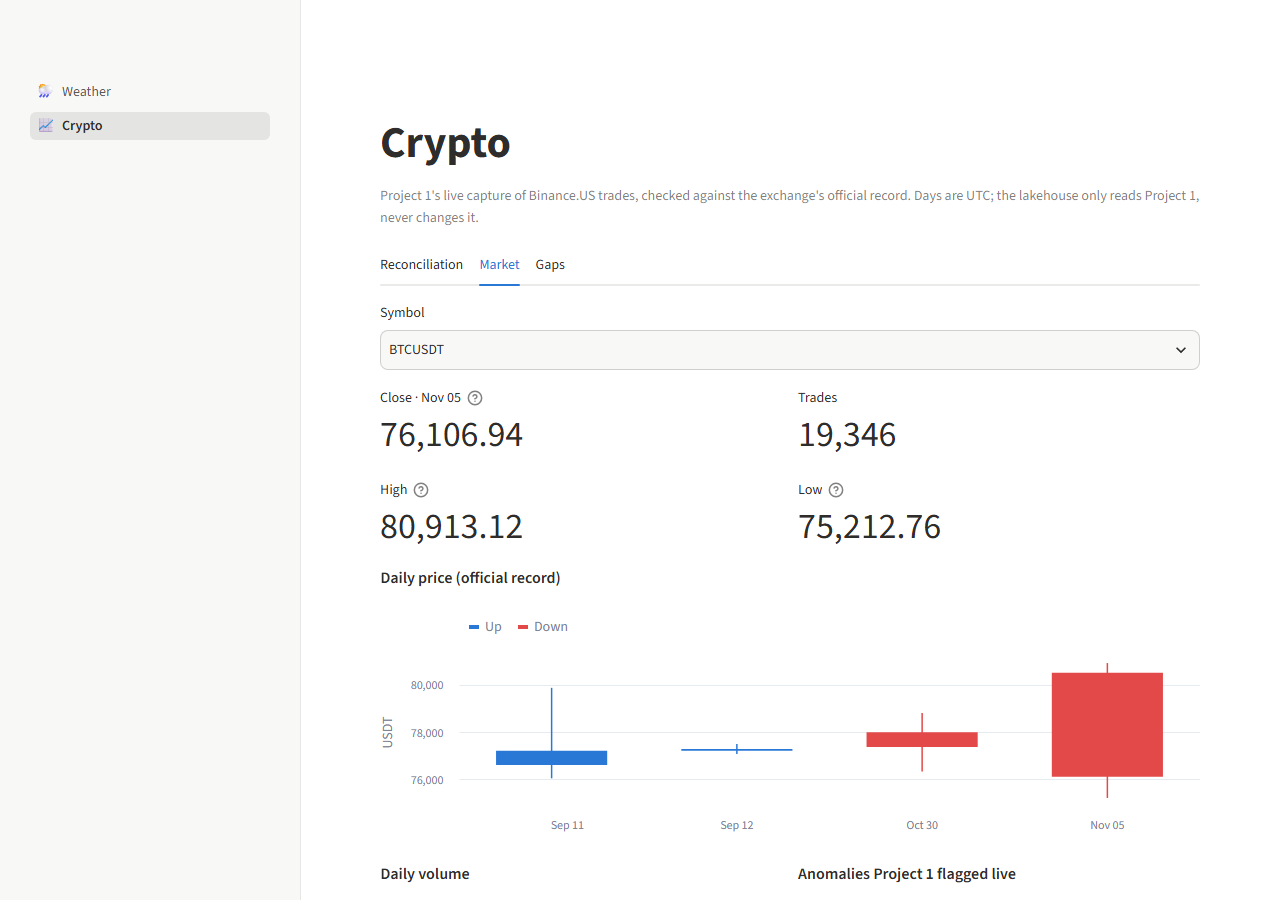
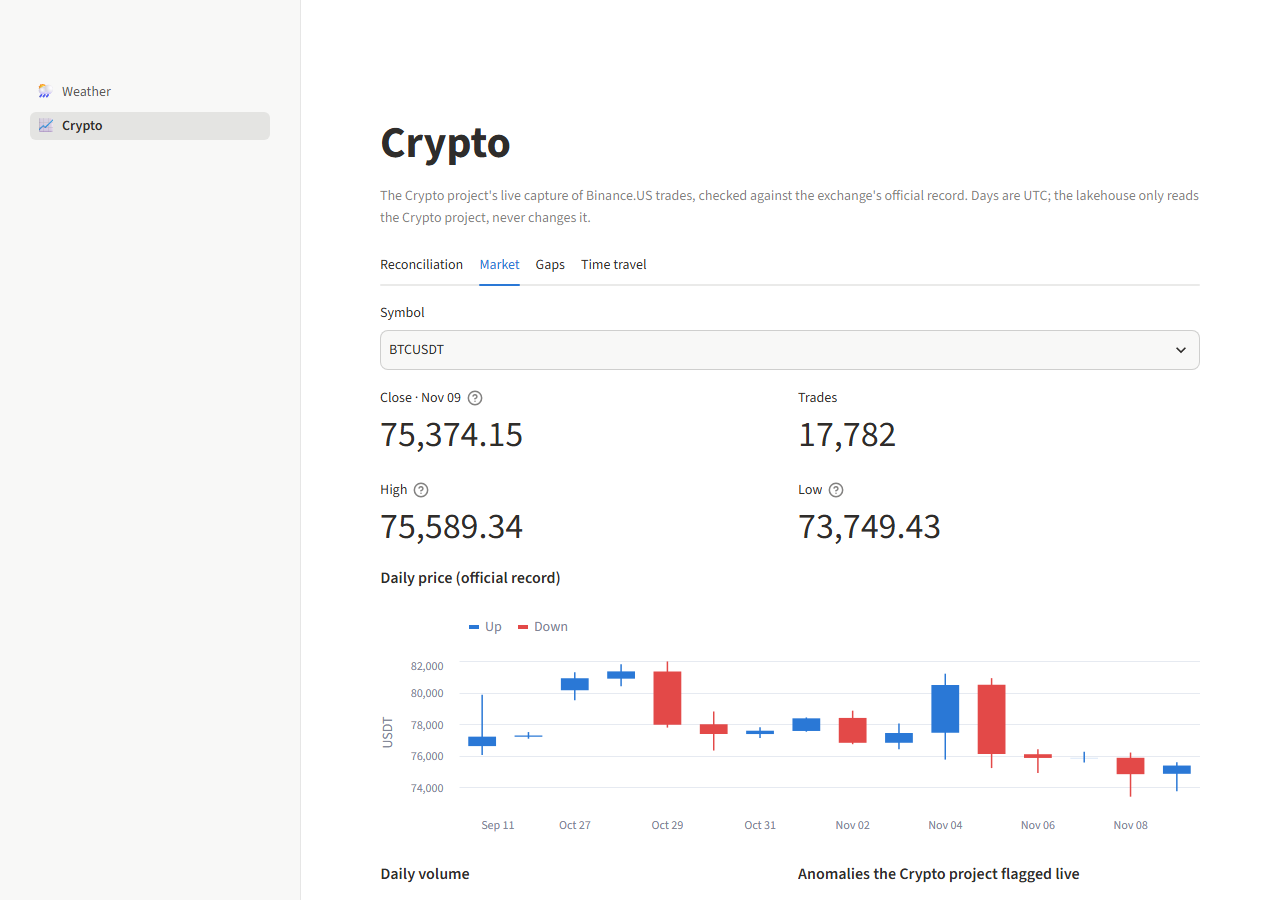
Add a demo GIF and two weeks of real crypto history to the README

diff --git a/README.md b/README.md
@@ -14,7 +14,9 @@ It answers one question for crypto trades: **do the live stream and the official
 | **Crypto** | Every BTC, ETH, SOL and XRP trade on Binance.US (about 49,000 a day), plus the Crypto project's live capture and the gaps it reported | Daily, partitioned by UTC day; backfillable; the Crypto project is read-only |
 | **Weather** | 7-day hourly forecasts for 79 world cities from [Open-Meteo](https://open-meteo.com/) | Daily |
 
-**Result on the real data so far** (5 days, 142,837 official trades): the Crypto project lost **0 trades while it was running** (100% completeness), **0 of its 2,945 captured trades disagree** with the exchange, and the **22,423 trades from its downtime** were filled from the official record.
+**Result on the real data so far** (16 days, 387,758 official trades; the Crypto project ran on 3 of them): the Crypto project lost **0 trades while it was running** (100% completeness), **0 of its 2,945 captured trades disagree** with the exchange, and the **22,423 trades from its downtime** were filled from the official record.
+
+![A 20-second tour of the dashboard: weather, crypto reconciliation, market, gaps and time travel](docs/images/demo.gif)
 
 | Crypto reconciliation | Crypto market | Crypto time travel (Iceberg) |
 |---|---|---|
@@ -71,6 +73,7 @@ dbt builds into one DuckDB file, `data/warehouse/lakehouse.duckdb`, and every ma
 | The Crypto project's gaps get filled | `fct_trade_gaps` checks every reported gap against `fct_trades`; a test fails if a gap is still open once the record covers both sides of it | Real data: 8 of 8 gaps filled (22,423 trades), including one spanning midnight |
 | Money is never a float | `DECIMAL(20,8)` from the API response to the marts; Pydantic rejects non-positive prices | Test recomputes every daily candle (open, high, low, close, volume) in Python `Decimal` from the raw files and compares |
 | Re-running a day changes nothing | Incremental models replace whole days (`delete+insert` on `trade_date`) | Test: running a partition twice leaves every crypto mart's checksum unchanged |
+| Backfills are routine | Daily partitions; a backfill over a range runs as one Dagster run ([ADR 10](docs/adr/0010-daily-partitions-one-writer.md)) | Real 14-day backfill (27 Oct – 9 Nov): one run, 12.8 minutes, every dbt test passed and Iceberg published a new snapshot |
 | A partition run only touches its own days | The run's date window filters both the raw reads and the replaced rows | Test: delete one day's raw files, rebuild another day, and the first day's rows are still there |
 | The Crypto project is never changed | The connection is opened `READ ONLY` ([ADR 8](docs/adr/0008-read-crypto-project-never-write.md)) | Test against a real Postgres with the Crypto project's schema (Testcontainers): a `DELETE` is refused |
 | Any engine reads the same data | The marts are published as Iceberg tables | Test: DuckDB's Iceberg reader and PyIceberg return identical rows for all four tables, money still `DECIMAL(20,8)` |
@@ -104,7 +107,7 @@ All four are met on the current data.
 
 Measured on a laptop (i5-1135G7, 12 GB RAM):
 
-- **Crypto:** about 49,000 official trades a day for 4 symbols; one daily partition (download, Crypto project extract, dbt build) takes **2–4 minutes**, mostly the deliberate pause between API pages
+- **Crypto:** 10,000–50,000 official trades a day across 4 symbols; one daily partition (download, Crypto project extract, dbt build, Iceberg publish) takes **2–4 minutes**, and a **14-day backfill took 12.8 minutes** as one run, mostly the deliberate pause between API pages
 - **Weather:** 79 cities × 168 hours = 13,272 hourly rows a day; a full run takes about 2 min 20 s
 - **`dbt build`:** 16 models (11 tables, 5 inlined), 44 data tests and 4 SLO checks, plus contracts on every mart
 - **Test suite:** 45 pytest tests (unit, integration, Iceberg, Testcontainers and smoke) in about 2–3½ minutes, plus 6 browser tests in about 40 s; CI runs both on every push

diff --git a/docs/slo.md b/docs/slo.md
@@ -29,6 +29,6 @@ The targets live in one place for the pipeline, the `slo_*` variables in `dbt_pr
 
 ## Current status
 
-All four are met on the real data as of 7 Nov: crypto reconciled through 6 Nov, 100% completeness while running, 0 disagreements, and a weather fetch within the last 26 hours. Crypto freshness only holds while the daily schedule is on: before 6 Nov was run, it was missed (newest day 5 Nov), which is how the check was first seen working.
+All four are met on the real data as of 10 Nov: crypto reconciled through 9 Nov (16 days, the Crypto project captured 3 of them), 100% completeness while running, 0 disagreements, and a weather fetch within the last 26 hours. Crypto freshness only holds while the daily schedule is on: before 6 Nov was run, it was missed (newest day 5 Nov), which is how the check was first seen working.
 
 On the CI sample data (`tests/data/`) the two freshness SLOs always warn, because its dates are deliberately fixed in the past. That's expected: warnings don't fail the build.
